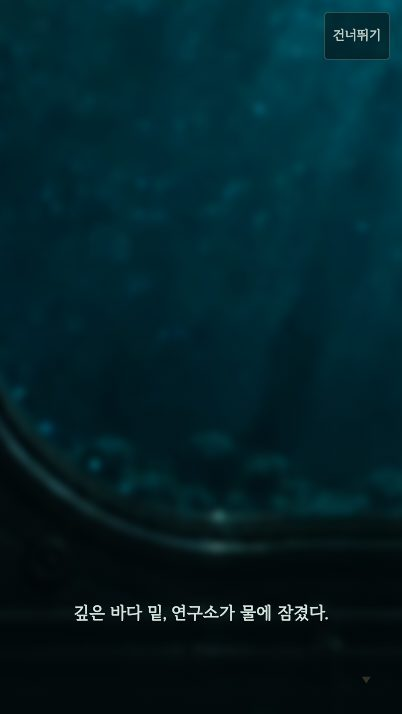
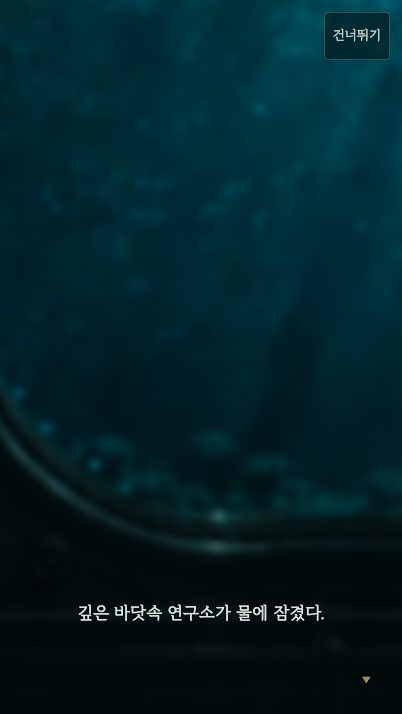
fix(app): rewrite dialogue as natural spoken lines
Every intro, ending and bench line is rewritten as radio talk rather
than written prose: no comma-broken fragments ("기록, 담았어요."), no
literary clipping, and the title tagline drops its comma too. Dialogue
and UI copy now contain no commas.

Changed region(s): [[0.1791, 0.8319, 0.806, 0.8936], [0.8955, 0.9244, 0.9254, 0.9552]]

diff --git a/src/app/story.ts b/src/app/story.ts
@@ -18,36 +18,36 @@ const yunseo = (pose: 'yunseo-concerned' | 'yunseo-relieved', text: string): Sto
 const dohyeon = (pose: 'dohyeon-explaining' | 'dohyeon-resolved', text: string): StoryLine => ({ speaker: '도현', pose, scene: 'room', text });
 
 export const INTRO_STORY: readonly StoryLine[] = [
-  narration('깊은 바다 밑, 연구소가 물에 잠겼다.'),
-  narration('남은 건 작업실 하나와, 건져 온 부품 세 개.'),
-  yunseo('yunseo-concerned', '들려요? 윤서예요. 수면 위 지원선이에요.'),
-  yunseo('yunseo-concerned', '전원 코어, 관측 렌즈, 그리고 연구 기록 카세트. 하나도 두고 오고 싶지 않아요.'),
-  dohyeon('dohyeon-explaining', '문제는 케이스예요. 회수 캡슐에 실을 수 있는 건 1리터짜리 하나뿐이에요.'),
-  dohyeon('dohyeon-explaining', '그대로는 안 들어가요. 그래서 이 프레스로 눌러야 해요.'),
-  dohyeon('dohyeon-explaining', '겉은 줄이고, 안은 지키고. 너무 세게 누르면 속까지 부서져요.'),
-  yunseo('yunseo-concerned', '부탁해요. 가져올 수 있는 만큼만이라도.'),
-  dohyeon('dohyeon-resolved', '좋아요. 작업대로 가죠.'),
+  narration('깊은 바닷속 연구소가 물에 잠겼다.'),
+  narration('남은 건 작업실 하나와 건져 낸 부품 세 개뿐이다.'),
+  yunseo('yunseo-concerned', '들려요? 저 윤서예요. 지금 지원선에서 연결했어요.'),
+  yunseo('yunseo-concerned', '건진 게 코어랑 렌즈랑 기록 카세트 맞죠? 셋 다 가져올 수 있으면 좋겠어요.'),
+  dohyeon('dohyeon-explaining', '문제는 케이스예요. 캡슐에 실을 수 있는 게 1리터짜리 하나뿐이거든요.'),
+  dohyeon('dohyeon-explaining', '그냥은 안 들어가요. 이 프레스로 눌러서 부피를 줄여야 해요.'),
+  dohyeon('dohyeon-explaining', '겉만 줄이는 거예요. 너무 세게 누르면 속까지 망가져요.'),
+  yunseo('yunseo-concerned', '부탁할게요. 가져올 수 있는 만큼만이라도요.'),
+  dohyeon('dohyeon-resolved', '그럼 작업대로 가요.'),
 ];
 
 /** The ending acknowledges only actual stored objects and their committed integrity. */
 export function endingStory(snapshot: GameSnapshot): readonly StoryLine[] {
   const cassette = snapshot.storedSpecimens.find(item => item.id === 'salvage-cassette');
   if (cassette) return cassette.integrity01 < 1 ? [
-    yunseo('yunseo-relieved', '카세트, 담아 왔군요.'),
-    yunseo('yunseo-relieved', '조금 상했지만, 남은 기록부터 읽어 볼게요.'),
-    dohyeon('dohyeon-resolved', '케이스는 수면으로 올려 보낼게요. 수고했어요.'),
+    yunseo('yunseo-relieved', '카세트 챙겨 왔네요!'),
+    yunseo('yunseo-relieved', '조금 망가졌지만 남은 기록부터 읽어 볼게요.'),
+    dohyeon('dohyeon-resolved', '케이스는 제가 올려 보낼게요. 수고 많았어요.'),
   ] : [
-    yunseo('yunseo-relieved', '기록이 무사해요.'),
-    yunseo('yunseo-relieved', '연구소는 가라앉아도, 우리가 본 건 남았어요. 고마워요.'),
-    dohyeon('dohyeon-resolved', '케이스는 수면으로 올려 보낼게요. 수고했어요.'),
+    yunseo('yunseo-relieved', '기록이 멀쩡해요!'),
+    yunseo('yunseo-relieved', '연구소는 잠겼어도 우리가 본 건 남았네요. 고마워요.'),
+    dohyeon('dohyeon-resolved', '케이스는 제가 올려 보낼게요. 수고 많았어요.'),
   ];
   if (snapshot.storedSpecimens.length > 0) return [
-    dohyeon('dohyeon-resolved', '담은 부품은 제가 수면으로 올릴게요.'),
-    yunseo('yunseo-concerned', '기록은 못 가져왔지만, 이걸로 다시 시작해 봐요.'),
+    dohyeon('dohyeon-resolved', '담은 부품은 제가 올려 보낼게요.'),
+    yunseo('yunseo-concerned', '기록은 못 건졌지만 이걸로 다시 시작해 봐요.'),
   ];
   return [
     yunseo('yunseo-concerned', '케이스가 비어 있네요.'),
-    dohyeon('dohyeon-explaining', '괜찮아요. 조금씩 눌렀다 떼면 돼요. 다시 해 봐요.'),
+    dohyeon('dohyeon-explaining', '처음엔 다 그래요. 조금씩 눌렀다 떼면서 다시 해 봐요.'),
   ];
 }
 
@@ -58,25 +58,25 @@ export interface CommsLine {
 }
 
 const TUTORIAL: readonly CommsLine[] = [
-  { speaker: '도현', text: '먼저 좌우로 끌어서 돌려 봐요. 얼마나 버틸지 보여요.' },
-  { speaker: '도현', text: '버튼을 꾹 누르다가, 원하는 만큼 줄면 떼요.' },
-  { speaker: '도현', text: '크기랑 가치를 보고, 괜찮으면 담아요.' },
+  { speaker: '도현', text: '좌우로 끌어서 한번 돌려 봐요. 얼마나 버틸지 보일 거예요.' },
+  { speaker: '도현', text: '버튼을 꾹 누르고 있다가 원하는 만큼 줄면 손을 떼요.' },
+  { speaker: '도현', text: '크기랑 가치를 보고 괜찮으면 담아요.' },
 ];
 
 /** Why each lot matters, said when it goes into the press. */
 const LOT_LINES: Readonly<Record<SalvageId, CommsLine>> = {
   'salvage-core': { speaker: '윤서', text: '전원 코어예요. 이게 있어야 장비를 다시 켤 수 있어요.' },
-  'salvage-lens': { speaker: '윤서', text: '관측 렌즈예요. 우리가 바다를 보던 눈이에요.' },
-  'salvage-cassette': { speaker: '윤서', text: '우리 기록이 든 카세트예요. 이것만은 꼭 부탁해요.' },
+  'salvage-lens': { speaker: '윤서', text: '관측 렌즈네요. 이걸로 바닷속을 들여다봤어요.' },
+  'salvage-cassette': { speaker: '윤서', text: '연구 기록이 든 카세트예요. 이건 꼭 좀 챙겨 주세요.' },
 };
 
 const TOLERANCE_LINES: Readonly<Record<Tolerance, CommsLine>> = {
-  fragile: { speaker: '도현', text: '약해요. 살살 눌러요.' },
-  normal: { speaker: '도현', text: '적당히 버텨요. 천천히 눌러 봐요.' },
-  sturdy: { speaker: '도현', text: '튼튼해요. 세게 눌러도 돼요.' },
+  fragile: { speaker: '도현', text: '약해 보여요. 살살 눌러요.' },
+  normal: { speaker: '도현', text: '적당히 버티겠네요. 천천히 눌러 봐요.' },
+  sturdy: { speaker: '도현', text: '튼튼하네요. 세게 눌러도 괜찮아요.' },
 };
 
-export const STRAIN_LINE: CommsLine = { speaker: '도현', text: '삐걱거려요! 이제 손 떼요.' };
+export const STRAIN_LINE: CommsLine = { speaker: '도현', text: '삐걱거려요! 손 떼요!' };
 
 export function tutorialLine(step: number): CommsLine {
   return TUTORIAL[Math.min(TUTORIAL.length - 1, Math.max(0, step))]!;
@@ -90,16 +90,16 @@ export function toleranceLine(tolerance: Tolerance): CommsLine {
 export function reactionLine(event: GameEvent, snapshot: GameSnapshot): CommsLine | null {
   if (event.type === 'specimen-selected') return LOT_LINES[event.specimenId];
   if (event.type === 'stored') return event.specimenId === 'salvage-cassette'
-    ? { speaker: '윤서', text: '기록, 담았어요. 고마워요.' }
-    : { speaker: '도현', text: `담았어요. ${remainingCapacity(snapshot).toFixed(2)}L 남았어요.` };
+    ? { speaker: '윤서', text: '기록 담았네요. 정말 고마워요.' }
+    : { speaker: '도현', text: `담았어요. 이제 ${remainingCapacity(snapshot).toFixed(2)}리터 남았어요.` };
   if (event.type === 'discarded') return event.specimenId === 'salvage-cassette'
-    ? { speaker: '윤서', text: '기록은 여기 두고 가요.' }
-    : { speaker: '도현', text: '이건 두고 가요.' };
+    ? { speaker: '윤서', text: '기록은 결국 두고 가네요.' }
+    : { speaker: '도현', text: '이건 여기 두고 가요.' };
   if (event.type === 'failed') {
     if (event.reason === 'capacity-exceeded') return { speaker: '도현', text: '이대로는 케이스에 안 들어가요.' };
     return snapshot.currentSpecimen?.id === 'salvage-cassette'
-      ? { speaker: '윤서', text: '기록이, 부서졌어요.' }
-      : { speaker: '윤서', text: '아, 부서졌어요.' };
+      ? { speaker: '윤서', text: '기록이 부서져 버렸어요.' }
+      : { speaker: '윤서', text: '부서져 버렸네요.' };
   }
   return null;
 }

diff --git a/tests/app/story.test.ts b/tests/app/story.test.ts
@@ -15,16 +15,16 @@ describe('recovery story follows committed cargo', () => {
     const empty = { ...SNAPSHOT_FIXTURES.complete, storedSpecimens: [], storedSpecimenIds: [] };
     expect(text(endingStory(empty))).toContain('비어 있네요');
     expect(endingStory(empty)[0]!.pose).toBe('yunseo-concerned');
-    expect(text(endingStory(SNAPSHOT_FIXTURES.complete))).toContain('기록은 못 가져왔지만');
+    expect(text(endingStory(SNAPSHOT_FIXTURES.complete))).toContain('기록은 못 건졌지만');
   });
 
   it('acknowledges a stored cassette but does not call damaged records intact', () => {
     const cassette = { ...SNAPSHOT_FIXTURES.complete.storedSpecimens[0]!, id: 'salvage-cassette' as const, integrity01: 1 };
     const recovered = { ...SNAPSHOT_FIXTURES.complete, storedSpecimens: [cassette], storedSpecimenIds: ['salvage-cassette'] as const };
-    expect(text(endingStory(recovered))).toContain('기록이 무사해요');
+    expect(text(endingStory(recovered))).toContain('기록이 멀쩡해요');
     const damaged = text(endingStory({ ...recovered, storedSpecimens: [{ ...cassette, integrity01: .6 }] }));
-    expect(damaged).toContain('조금 상했지만');
-    expect(damaged).not.toContain('무사해요');
+    expect(damaged).toContain('조금 망가졌지만');
+    expect(damaged).not.toContain('멀쩡해요');
   });
 });
 
@@ -38,7 +38,7 @@ describe('the characters keep talking during the round', () => {
   it('reacts to banking, breaking and overflow from the committed state', () => {
     const { stored, failed } = SNAPSHOT_FIXTURES;
     const room = (stored.capacity - stored.volumeUsed).toFixed(2);
-    expect(reactionLine({ type: 'stored', tick: 1, specimenId: 'salvage-lens', scoreDelta: 1 }, stored)!.text).toContain(`${room}L`);
+    expect(reactionLine({ type: 'stored', tick: 1, specimenId: 'salvage-lens', scoreDelta: 1 }, stored)!.text).toContain(`${room}리터`);
     expect(reactionLine({ type: 'failed', tick: 1, reason: 'capacity-exceeded' }, failed)!.speaker).toBe('도현');
     const brokenCassette = { ...failed, currentSpecimen: { ...failed.currentSpecimen!, id: 'salvage-cassette' as const } };
     expect(reactionLine({ type: 'failed', tick: 1, reason: 'specimen-broken' }, brokenCassette)!.text).toContain('기록');
@@ -47,6 +47,6 @@ describe('the characters keep talking during the round', () => {
   it('keeps the tutorial and tolerance advice in 도현\'s voice', () => {
     expect(tutorialLine(0).text).toContain('좌우로 끌어서');
     expect(tutorialLine(99)).toEqual(tutorialLine(2));
-    expect(toleranceLine('fragile')).toEqual({ speaker: '도현', text: '약해요. 살살 눌러요.' });
+    expect(toleranceLine('fragile')).toEqual({ speaker: '도현', text: '약해 보여요. 살살 눌러요.' });
   });
 });

diff --git a/src/app/index.ts b/src/app/index.ts
@@ -296,7 +296,7 @@ export function mountApp(root: HTMLElement): () => void {
       const content: Record<string, string> = {
         start: `<div class="mission-identity"><p class="wordmark" aria-label="DEEP PRESS">DEEP<span>PRESS</span></p></div>
         <section class="dialog-card mission-card" role="dialog" aria-modal="true" aria-labelledby="dialog-title">
-          <h2 id="dialog-title">남길 것을,<br>골라 주세요.</h2>
+          <h2 id="dialog-title">남길 것을<br>골라 주세요.</h2>
           <button data-action="story-open" class="dialog-primary" type="button">시작하기</button>
           <details class="font-credits"><summary>글꼴 출처</summary><p>리디바탕 (리디주식회사)<br>Cafe24 PRO SLIM Max (카페24)</p><a href="${ridiLicenseUrl}" target="_blank" rel="noopener">리디바탕 이용 조건</a><a href="${logoLicenseUrl}" target="_blank" rel="noopener">로고 글꼴 이용 조건</a><a href="${logoOflUrl}" target="_blank" rel="noopener">로고 글꼴 OFL 전문</a></details>
         </section>`,

diff --git a/docs/handoffs/C/vn-descent/README.md b/docs/handoffs/C/vn-descent/README.md
@@ -11,7 +11,7 @@
 - **엔딩.** 기존과 같은 조건(무사한 카세트, 손상된 카세트, 부품만, 빈 케이스)에 맞춰 대사를 고르고, 담지 않은 기록을 회수했다고 말하지 않아요. 도입과 같은 대화 무대를 써요.
 - **HUD.** 점수와 남은 공간은 높이 44px 띠 한 줄에 있어요. 물건 카드는 두 줄이에요. 한 줄은 이름(⇄)과 압력 %, 다른 한 줄은 사실 칩(부피, 가치, 내구도, 안 들어감)이에요. 압력 막대는 카드 아래 2px 선이에요. 단계 표시와 압력 라벨 줄은 뺐어요.
 - **본 게임과의 연결: 작업대 대사창.** 도입이 끝나도 두 사람은 계속 말해요. 버튼 바로 위에 도입 대사창을 두 줄 크기로 줄인 창이 있어요. 모양, 이름표, 한 글자씩 나오는 방식이 도입과 같아요. 줄 수를 고정해서 대사가 바뀌어도 장면이 흔들리지 않아요. 우선순위는 삐걱 경고, 첫 물건 튜토리얼, 최근 반응 순이에요.
-  - 물건이 프레스에 오르면 윤서가 그 물건이 왜 중요한지 말해요(전원 코어, 바다를 보던 눈, 우리 기록).
+  - 물건이 프레스에 오르면 윤서가 그 물건이 왜 중요한지 말해요(장비를 다시 켤 코어, 바닷속을 들여다보던 렌즈, 연구 기록).
   - 돌려서 버티는 정도가 드러나면 도현이 얼마나 세게 눌러도 되는지 말해요.
   - 누르다 삐걱거리면 도현이 손을 떼라고 해요.
   - 담기, 버리기, 부서짐, 공간 초과에 반응해요. 카세트일 때는 윤서가 기록 이야기로 반응해요.
@@ -20,11 +20,13 @@
 - **조작부.** 버튼이 8개에서 3개로 줄었어요(꾹 눌러 압축, 담기, 버리기). 물건 셋을 고르던 트레이 대신, 담거나 버린 뒤 0.7초가 지나면 다음 물건이 자동으로 올라와요. 아직 누르지 않은 물건은 카드의 이름(⇄)을 눌러 바꿀 수 있어서, 순서를 고르는 선택권은 그대로예요. '마치기'는 정지 메뉴의 '여기서 마치기'와 실패 창으로 옮겼어요. 마지막 물건을 담거나 버리면 전처럼 자동으로 끝나요.
 - 정지 메뉴의 '이야기 다시 보기'는 도입을 다시 보여 주고, 끝나면 이어서 플레이해요(영상 없음). 결과 화면의 '다시 하기'는 바로 플레이해요.
 
+- **대사 윤문.** 모든 대사를 입말로 다시 썼어요. 쉼표로 끊는 문어투("기록, 담았어요.")를 없애고, 무전으로 주고받는 말투로 맞췄어요. 대사와 UI 문구에 쉼표가 하나도 없어요.
+
 ## 덜어낸 것
 
 | 화면 | 뺀 것 | 남긴 것 |
 |---|---|---|
-| 시작 | `심해 회수반 · 마지막 작업`, 설명 2줄, '바로 회수 시작' | 로고, "남길 것을, 골라 주세요.", 시작하기, 글꼴 출처 |
+| 시작 | `심해 회수반 · 마지막 작업`, 설명 2줄, '바로 회수 시작' | 로고, "남길 것을 골라 주세요.", 시작하기, 글꼴 출처 |
 | 이야기 | 채널 표시, 역할, 쪽수, 제목, 부품 목록 카드, 이전 버튼 | 이름표, 대사, 건너뛰기 |
 | HUD | 점수·공간 카드 2개, 단계 표시, 압력 라벨 줄, 부품 용도 문장, `도현 · ` 접두, "돌려 보면…" 넛지, 허용치 문장 | 점수·공간 한 줄, 이름(⇄)과 압력 %, 사실 칩 `0.76L 가치 260 내구도 100%` |
 | 조작부 | 물건 고르기 버튼 3개, 마치기 | 두 줄 대사창, 꾹 눌러 압축, 담기, 버리기 |
@@ -42,7 +44,7 @@
 | 근접 | `·`로 사실을 이어 붙여 한 덩어리로 읽혔어요. | 칩 사이 14px 간격을 라벨과 값 사이 간격보다 크게 뒀어요. 결과는 이름·부피·가치 3열 격자예요. |
 | 유사 | 황동색이 주요 행동과 장식에 섞여 있었어요. 도입은 명조, 플레이는 고딕이라 다른 게임처럼 보였어요. | 황동색은 주요 행동과 핵심 수치(압축 버튼, 압력 %, 점수, 이름표, 넘김 표시)에만 써요. 폰트는 리디바탕 하나예요. 작업대 대사창은 도입 대사창과 같은 모양이라 같은 사람들의 목소리로 읽혀요. |
 | 공통 영역 | 이야기 카드가 그림, 메타, 본문, 목록, 버튼을 한 상자에 담았어요. | 대사창과 이름표를 한 발화 영역으로 묶었어요. 상태 카드는 현재 물건, 트레이는 고를 물건 셋이에요. |
-| 연속 | 도입이 끝나면 게임 화면이 갑자기 나타났고, 캐릭터도 사라졌어요. | 내레이션의 창문 → 영상 첫 장면의 같은 창문 → 작업대 → 실제 첫 프레임 → HUD 서서히 나타남 → 도현의 첫 안내. 도입의 마지막 말("작업대로 가죠")이 플레이 첫 말로 이어져요. |
+| 연속 | 도입이 끝나면 게임 화면이 갑자기 나타났고, 캐릭터도 사라졌어요. | 내레이션의 창문 → 영상 첫 장면의 같은 창문 → 작업대 → 실제 첫 프레임 → HUD 서서히 나타남 → 도현의 첫 안내. 도입의 마지막 말("그럼 작업대로 가요")이 플레이 첫 말로 이어져요. |
 | 간결성·초점 | 화면마다 보조 버튼과 설명이 경쟁했어요. 플레이 화면에 버튼이 8개였어요. | 화면마다 주 행동 하나(시작하기, 대사 넘김, 꾹 눌러 압축, 버리고 계속하기, 다시 하기). 플레이 화면 버튼은 3개와 정지 버튼이고, 버리기는 테두리 없는 조용한 버튼이에요. |
 
 ## 검증
